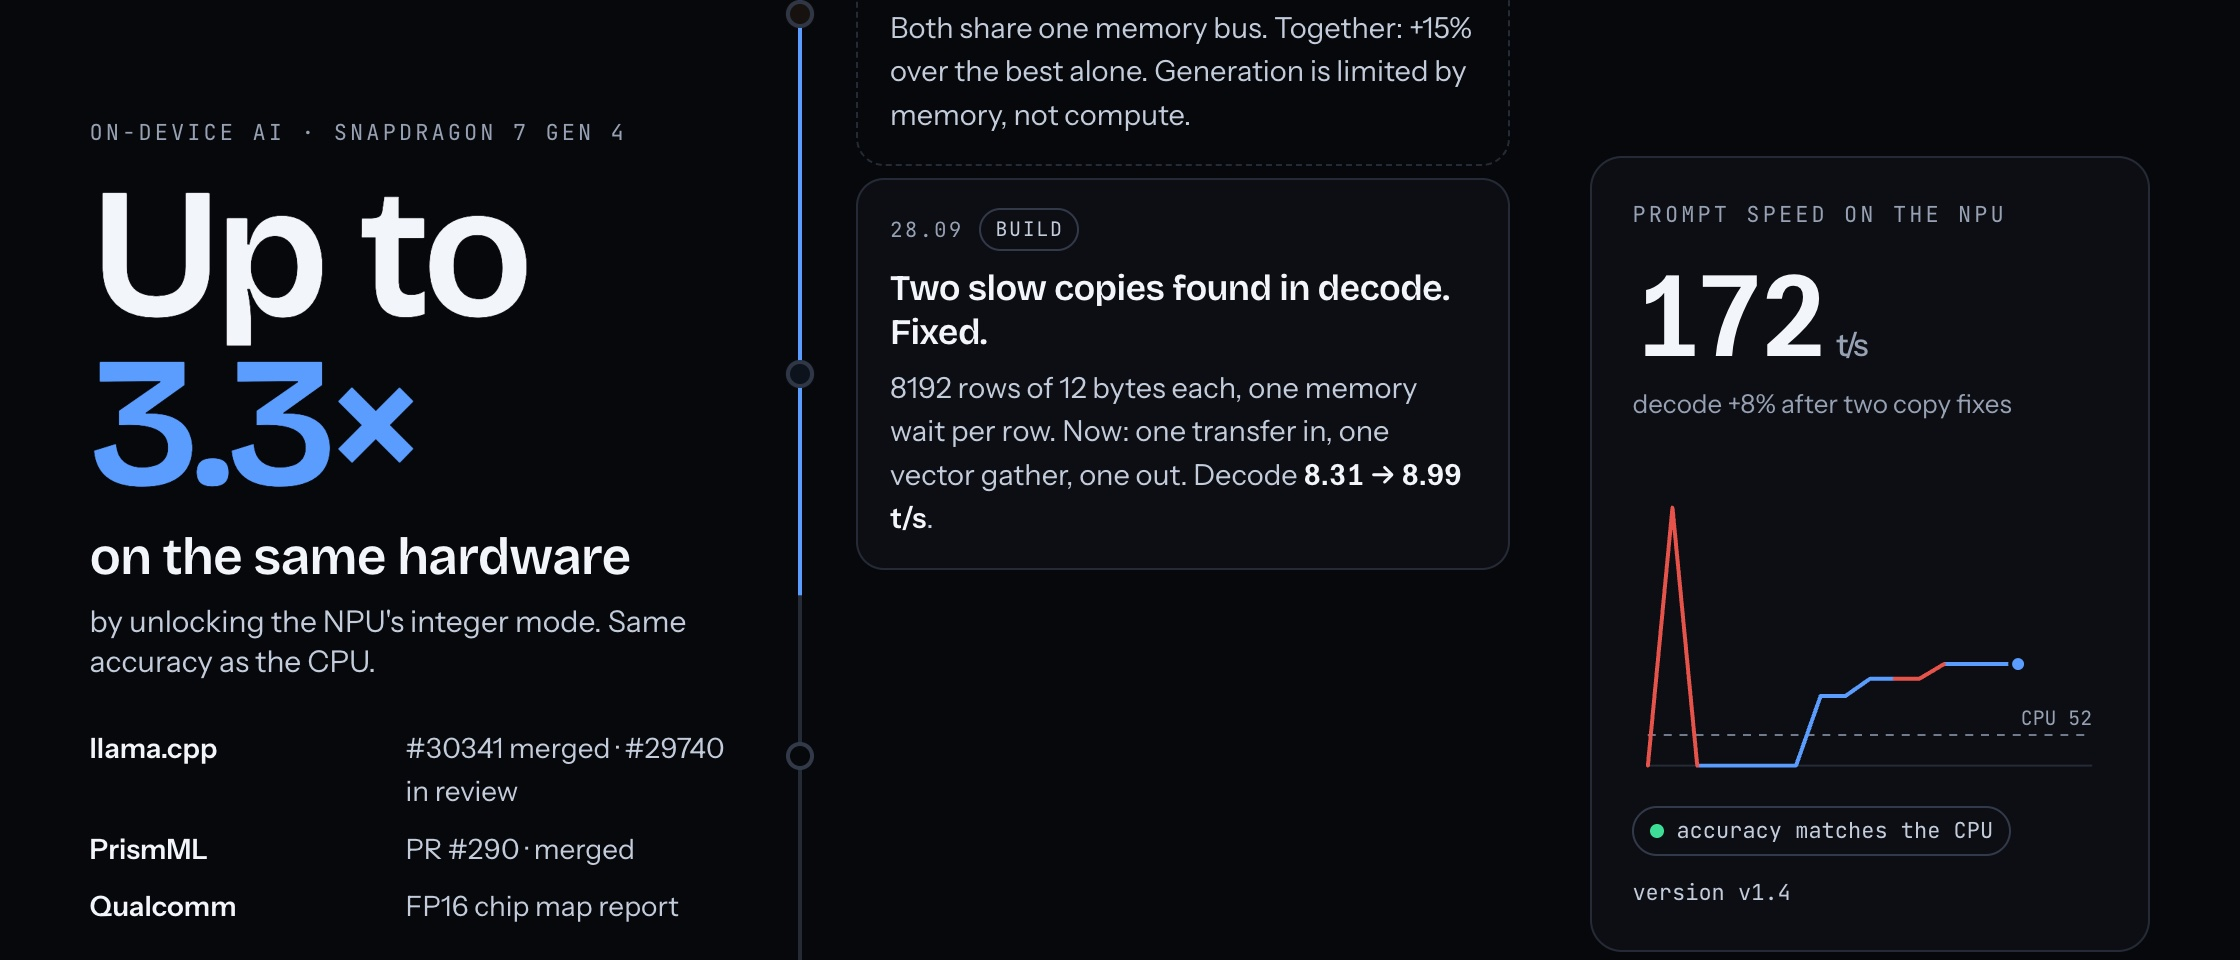
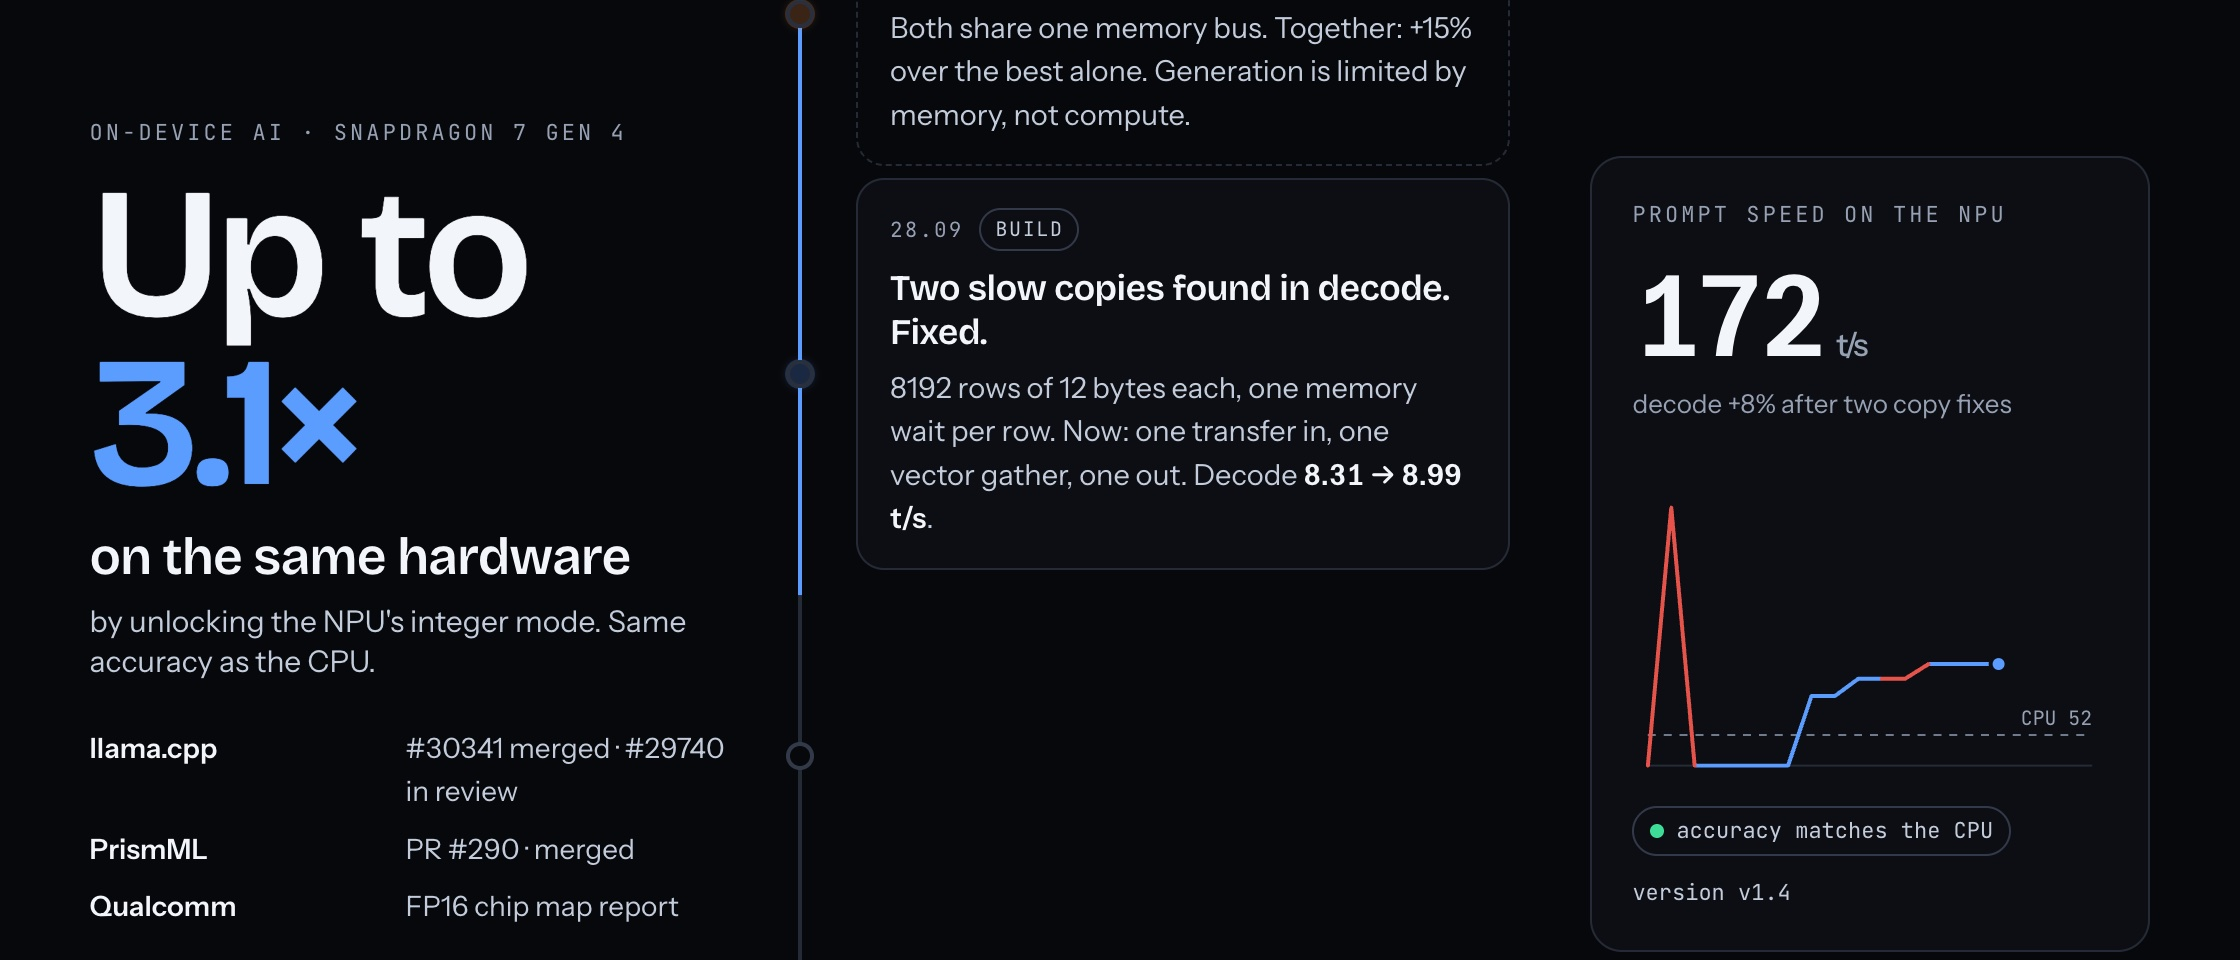
NPU case: 3.1x on current llama.cpp, rebase step 04.11
After the rebase onto current master the CPU reads prompts faster
(Qwen3.5-4B 57.1 t/s, was 51.7) while the NPU holds (177.0 t/s), so the
headline is now 3.1x. New timeline step 04.11: rebase, gating for conv2d
and the lightning indexer, Snapdragon 6 Gen 4 (SM6650) reported with the
same bug and simulated on SM7750. Results note, limits, thumbnail and the
home-page card updated.

diff --git a/npu/index.html b/npu/index.html
@@ -4,10 +4,10 @@
 <meta charset="utf-8">
 <meta name="viewport" content="width=device-width,initial-scale=1">
 <title>Integer NPU · Ruslan Karymov</title>
-<meta name="description" content="A phone NPU returned garbage in llama.cpp. Integer math made it 3.3× faster than the CPU at reading prompts, with the same accuracy.">
+<meta name="description" content="A phone NPU returned garbage in llama.cpp. Integer math made it 3.1× faster than the CPU at reading prompts, with the same accuracy.">
 <meta property="og:type" content="article">
-<meta property="og:title" content="The phone's NPU returned garbage. Now it reads prompts 3.3× faster than the CPU.">
-<meta property="og:description" content="Integer math on the Snapdragon 7 Gen 4 NPU in llama.cpp: 3.3× vs CPU, 2.3× vs GPU, same accuracy. The reasoning step by step, dead ends included.">
+<meta property="og:title" content="The phone's NPU returned garbage. Now it reads prompts 3.1× faster than the CPU.">
+<meta property="og:description" content="Integer math on the Snapdragon 7 Gen 4 NPU in llama.cpp: 3.1× vs CPU, 2.3× vs GPU, same accuracy. The reasoning step by step, dead ends included.">
 <meta property="og:url" content="https://karusrus.github.io/npu/">
 <meta property="og:image" content="https://karusrus.github.io/assets/w-npu.jpg">
 <meta name="twitter:card" content="summary_large_image">
@@ -216,10 +216,10 @@ footer{padding:56px 0 80px;color:var(--dim);font-size:14px}
 <header class="hero">
   <div class="wrap">
     <div class="mono rv">Case · On-device AI · llama.cpp · Snapdragon 7 Gen 4</div>
-    <h1 class="rv">The phone's NPU returned garbage. Now it reads prompts 3.3× faster than the CPU.</h1>
+    <h1 class="rv">The phone's NPU returned garbage. Now it reads prompts 3.1× faster than the CPU.</h1>
     <p class="lede rv">On a Motorola Edge 70, llama.cpp's NPU backend produced nonsense. The chip's matrix unit has no FP16, and the software assumed it did. Instead of waiting for a fix, we asked what the unit <em>can</em> do: integer math. Three days later the NPU is the fastest way to read a prompt on that phone, with the same accuracy as the CPU.</p>
     <div class="tiles">
-      <div class="tile hi rv"><div class="v" data-count="3.3" data-dec="1">0<small>×</small></div><div class="l">prompt speed vs the best CPU setting (Qwen3.5-4B, 512 tokens)</div></div>
+      <div class="tile hi rv"><div class="v" data-count="3.1" data-dec="1">0<small>×</small></div><div class="l">prompt speed vs the best CPU setting (Qwen3.5-4B, 512 tokens, current llama.cpp)</div></div>
       <div class="tile rv"><div class="v" data-count="2.3" data-dec="1">0<small>×</small></div><div class="l">vs the phone's GPU (Adreno 722, OpenCL)</div></div>
       <div class="tile rv"><div class="v">10.84</div><div class="l">perplexity on the NPU, 10.85 on the CPU: the same accuracy</div></div>
       <div class="tile rv"><div class="v" data-count="21" data-dec="0">0</div><div class="l">Snapdragon chips checked for FP16; 5 lack it</div></div>
@@ -304,6 +304,9 @@ footer{padding:56px 0 80px;color:var(--dim);font-size:14px}
           <div class="step l" data-g="179" data-s="good" data-v="v1.4">
             <div class="card"><div class="when">11–12.10 <span class="chip">Upstream</span></div><h3>Merged into llama.cpp, with a co-author credit.</h3><p>The Hexagon maintainer folded the short-row copy path into his rewrite of the copy ops, kept the original commit as co-authored, and merged it as <a href="https://github.com/ggml-org/llama.cpp/pull/30341">#30341</a> (<a href="https://github.com/ggml-org/llama.cpp/commit/8bb3cf0d216a5ae48360179f2931daf284be4d01">commit</a>). On this phone the two conv-state copies went from 142 and 258 µs to 18 and 15 µs per call; decode <span class="num">8.5 → 9.2 t/s</span>.</p></div><div class="dot"></div>
           </div>
+          <div class="step r" data-g="177" data-s="good" data-v="v1.4, rebased" data-note="3.1× the CPU on current llama.cpp">
+            <div class="dot"></div><div class="card"><div class="when">04.11 <span class="chip">Upstream</span></div><h3>Rebased onto current llama.cpp. A second chip has the same bug.</h3><p>Upstream reorganised the host code; the FP16 checks moved with it and now also cover two newer FP16 users (conv2d and the lightning indexer). On current llama.cpp the CPU reads prompts faster than in September (Qwen3.5-4B: 57 t/s, was 52), while the NPU holds at <span class="num">177 t/s</span>, so the gap is now 3.1×. A developer with a Snapdragon 6 Gen 4 (SM6650) reported the same garbage output in <a href="https://github.com/ggml-org/llama.cpp/issues/29473">#29473</a>. Its limits (2 MB of fast memory, 2 vector threads), simulated on this phone, pass the same tests: Llama-3.2-1B reads prompts at 304 t/s, against 49 without the matrix unit.</p></div>
+          </div>
         </div>
       </div>
 
@@ -311,7 +314,7 @@ footer{padding:56px 0 80px;color:var(--dim);font-size:14px}
         <div class="t">Prompt speed on the NPU</div>
         <div class="big"><span id="gv">0</span><small>t/s</small></div>
         <div class="sub" id="gn">scroll the steps</div>
-        <svg id="gsvg" viewBox="0 0 240 150" role="img" aria-label="Prompt speed history: CPU 52 tokens per second, NPU from garbage to 172"></svg>
+        <svg id="gsvg" viewBox="0 0 240 150" role="img" aria-label="Prompt speed history: CPU 52 tokens per second, NPU from garbage to 177"></svg>
         <div class="state" id="gs"><i></i><span>not started</span></div>
         <div class="ver" id="gver"></div>
         <button class="replay" id="replay">Replay</button>
@@ -325,7 +328,7 @@ footer{padding:56px 0 80px;color:var(--dim);font-size:14px}
     <div class="shead rv">
       <div class="mono">Results</div>
       <h2>Faster than the CPU and the GPU, on the same phone.</h2>
-      <p>Current version v1.4. Motorola Edge 70, 12 GB. llama-bench, 512-token prompt. CPU is the best of 2/4/6/8 threads; GPU is the stock OpenCL backend.</p>
+      <p>Measured on v1.4, 27 September. Motorola Edge 70, 12 GB. llama-bench, 512-token prompt. CPU is the best of 2/4/6/8 threads; GPU is the stock OpenCL backend. After the rebase onto current llama.cpp (4 November) the CPU is faster (Qwen3.5-4B 57.1 t/s) and the NPU holds (177.0 t/s): 3.1×.</p>
     </div>
     <div class="two">
       <div class="chartcard rv" id="barcard">
@@ -417,17 +420,17 @@ footer{padding:56px 0 80px;color:var(--dim);font-size:14px}
         <li>The matrix unit speeds up prompts. Generation is memory-bound; the CPU is still slightly faster (Qwen3.5-4B: 9.7 vs 9.0 tokens/s).</li>
         <li>Only q4_0 weights run on the matrix unit, so mixed-quant models gain less (2.25×).</li>
         <li>On a 300-token prompt the greedy text follows the CPU for about 10 tokens, then picks a different word. Perplexity stays the same.</li>
-        <li>Tested on one phone. Not merged into llama.cpp yet: the integer path is in review as #29740.</li>
+        <li>Tested on one phone; the Snapdragon 6 Gen 4 numbers are a simulation on it. Not merged into llama.cpp yet: the integer path is in review as #29740.</li>
       </ul>
     </div>
   </div>
 </section>
 
-<footer><div class="wrap">Ruslan Karymov · AI Enablement &amp; Automation Lead · <a href="../">karusrus.github.io</a> · updated October 2026</div></footer>
+<footer><div class="wrap">Ruslan Karymov · AI Enablement &amp; Automation Lead · <a href="../">karusrus.github.io</a> · updated November 2026</div></footer>
 <div class="tip" id="tip"></div>
 <div class="shotpanel" aria-hidden="true">
   <div class="k">On-device AI · Snapdragon 7 Gen 4</div>
-  <div class="big">Up to <span>3.3×</span></div>
+  <div class="big">Up to <span>3.1×</span></div>
   <div class="l1">on the same hardware</div>
   <div class="l2">by unlocking the NPU's integer mode. Same accuracy as the CPU.</div>
   <div class="up">

diff --git a/index.html b/index.html
@@ -428,7 +428,7 @@ footer{padding:60px 0 80px;color:var(--dim);font-size:13px;border-top:1px solid 
         </div>
         <div class="pbody">
           <h3>A phone NPU that "couldn't" run LLMs, running them</h3>
-          <p>On Snapdragon 7 Gen 4 the NPU returned garbage in llama.cpp: its matrix unit has no FP16 and the software assumed it did. I reframed the bug as the opportunity and, working with an AI coding agent, moved the math to integers. Prompt processing is now 3.3× faster than the CPU and 2.3× faster than the GPU, with the same accuracy (perplexity) as the CPU. A copy optimization I co-authored is merged into llama.cpp, and an ARM kernel into PrismML; the main fix is in review upstream. A 21-chip map shows which Snapdragons need it. The case page shows the reasoning step by step, dead ends included.</p>
+          <p>On Snapdragon 7 Gen 4 the NPU returned garbage in llama.cpp: its matrix unit has no FP16 and the software assumed it did. I reframed the bug as the opportunity and, working with an AI coding agent, moved the math to integers. Prompt processing is now 3.1× faster than the CPU and 2.3× faster than the GPU, with the same accuracy (perplexity) as the CPU. A copy optimization I co-authored is merged into llama.cpp, and an ARM kernel into PrismML; the main fix is in review upstream. A 21-chip map shows which Snapdragons need it. The case page shows the reasoning step by step, dead ends included.</p>
           <div class="tags"><span class="tag">llama.cpp</span><span class="tag">Hexagon NPU</span><span class="tag">On-device AI</span><span class="tag">Performance</span><span class="tag">AI pair work</span></div>
           <div class="plinks"><a href="npu/">Case →</a><a href="https://github.com/karusrus/npu-enablement" target="_blank" rel="noopener">Repository →</a></div>
         </div>
